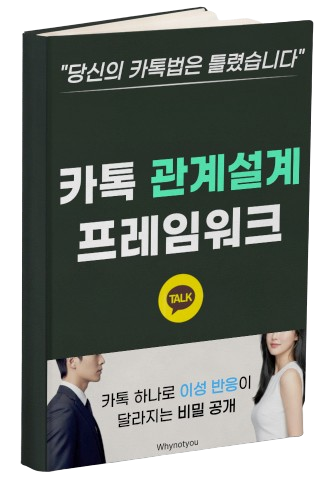
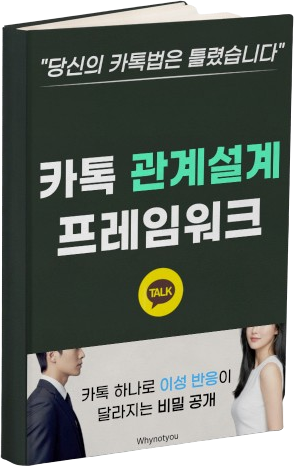
Membership only, delete hero/timer lines, 카톡고자, regret emoji, crop book images to equal size

diff --git a/snp.html b/snp.html
@@ -340,9 +340,8 @@
   <!-- HERO -->
   <section class="hero">
     <div class="emblem">✦</div>
-    <span class="eyebrow" style="font-family:'Pretendard',sans-serif; letter-spacing:1px; text-transform:none; font-weight:700;">썸 · 소개팅 · 데이팅앱 · 연애</span>
+    <span class="eyebrow" style="font-family:'Playfair Display',serif; letter-spacing:4px; text-transform:uppercase; font-weight:700;">MEMBERSHIP ONLY</span>
     <h1>3주 만에<br><span class="hl l">카톡고자</span><br>탈출시켜드립니다.</h1>
-    <div class="sub2" style="font-size:24px; font-weight:700; color:var(--text); margin-top:22px;">카톡만 잘해도<br>여자는 넘어옵니다</div>
     <img src="3d_illust/assets/snp_man_phone.png" onerror="this.onerror=null;this.src='https://cdn.jsdelivr.net/npm/@lobehub/fluent-emoji-3d@1.1.0/assets/1f4f1.webp'" alt="" style="filter:drop-shadow(0 16px 30px rgba(0,0,0,.55));">
   </section>
 
@@ -352,12 +351,11 @@
     <div class="stop-sub1">결제부터 하지 마세요!</div>
     <div class="stop-sub2">천천히 읽어보고 결정해주세요</div>
     <div class="sec-arrow" style="margin:26px 0 22px;"><svg viewBox="0 0 100 110"><path d="M38 0H62V60H82L50 105 18 60H38Z"/></svg></div>
-    <p class="serif" style="font-size:27px; font-weight:700; line-height:1.55;">여자가 넘어오는 카톡엔<br><span class="hl l">정해진 흐름</span>이 있습니다</p>
     <div class="timer-ring">
       <div class="t-time" id="snpTimer">2:00</div>
       <div class="t-min">min</div>
     </div>
-    <p class="serif" style="font-size:21px; font-weight:700; margin-top:72px; line-height:1.5;">단 <b class="gold">2분</b>만 집중하시면<br><span class="hl l">카톡으로 연애의 자유</span> 가능합니다</p>
+    <p class="serif" style="font-size:21px; font-weight:700; margin-top:72px; line-height:1.5;">단 <b class="gold">2분</b>만 집중하시면<br><span class="hl l">카톡고자</span> 탈출시켜드립니다.</p>
   </section>
 
   <!-- 선착순 잔여 카운터 -->
@@ -426,7 +424,7 @@
 
   <!-- 하지만 -->
   <section class="card">
-    <img class="sec-ic" src="https://cdn.jsdelivr.net/npm/@lobehub/fluent-emoji-3d@1.1.0/assets/1f4ac.webp" alt="">
+    <img class="sec-ic" src="https://cdn.jsdelivr.net/npm/@lobehub/fluent-emoji-3d@1.1.0/assets/1f614.webp" alt="">
     <div class="h2">그러나, 이런 아쉬움도<br>있었습니다.</div>
     <div class="stack" style="gap:10px;">
       <div class="quote">전자책은 다 읽었는데, 막상 카톡창 열면 또 멘트가 안 떠올라요</div>
@@ -707,8 +705,8 @@
     <div class="stack" style="gap:16px; margin-top:32px;">
       <div class="step"><span class="num gold">1</span><div><b style="font-size:19px;">전자책 2권 추가 무료 증정!</b><div class="lead" style="font-size:16px; color:#9fe8b3; font-weight:700;">20만원 상당</div><div class="lead" style="font-size:16px;">카톡 관계설계 프레임워크 + 가우스 5단계 이론</div></div></div>
       <div class="books" style="margin:6px 0 2px;">
-        <div class="book"><img src="3d_illust/assets/ebook_kakao.png" alt="" style="width:100%; aspect-ratio:3/4; object-fit:cover; border-radius:8px; display:block;"><div class="bt">카톡 관계설계 프레임워크</div><div class="bc">10만원 상당</div></div>
-        <div class="book"><img src="3d_illust/assets/ebook_gauss.png" alt="" style="width:100%; aspect-ratio:3/4; object-fit:cover; border-radius:8px; display:block;"><div class="bt">가우스 5단계 이론</div><div class="bc">10만원 상당</div></div>
+        <div class="book"><img src="3d_illust/assets/ebook_kakao.png" alt="" style="width:100%; height:240px; object-fit:contain; border-radius:8px; display:block;"><div class="bt">카톡 관계설계 프레임워크</div><div class="bc">10만원 상당</div></div>
+        <div class="book"><img src="3d_illust/assets/ebook_gauss.png" alt="" style="width:100%; height:240px; object-fit:contain; border-radius:8px; display:block;"><div class="bt">가우스 5단계 이론</div><div class="bc">10만원 상당</div></div>
       </div>
       <div class="step"><span class="num gold">2</span><div><b style="font-size:19px;">카톡 / 데이팅앱 프로필 컨설팅</b><div class="lead" style="font-size:16px; color:#9fe8b3; font-weight:700;">50만원 상당</div><div class="lead" style="font-size:16px;">지워야 할 사진, 메인에 둘 사진 등의 조언으로 이미지 메이킹을 해드립니다.</div></div></div>
       <div class="step"><span class="num gold">3</span><div><b style="font-size:19px;">수강 뒤에도 개별 카톡 코칭</b><div class="lead" style="font-size:16px; color:#9fe8b3; font-weight:700;">150만원 상당</div><div class="lead" style="font-size:16px;">막힐 때마다, 조언이 필요할 때마다 조언해드립니다.</div></div></div>
